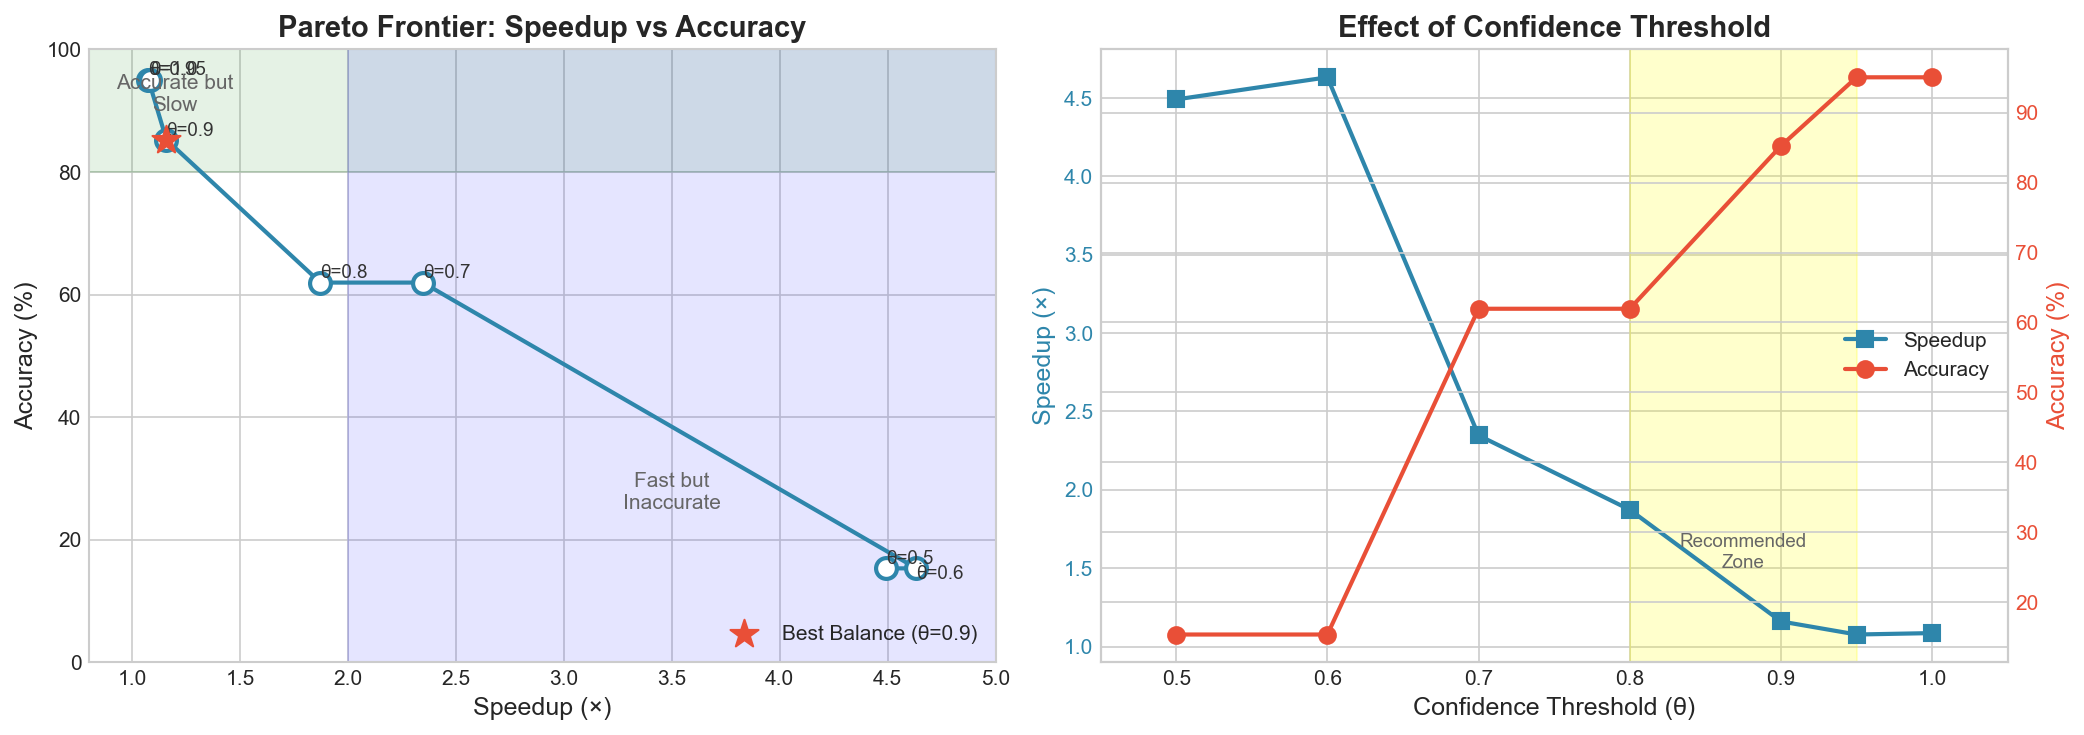
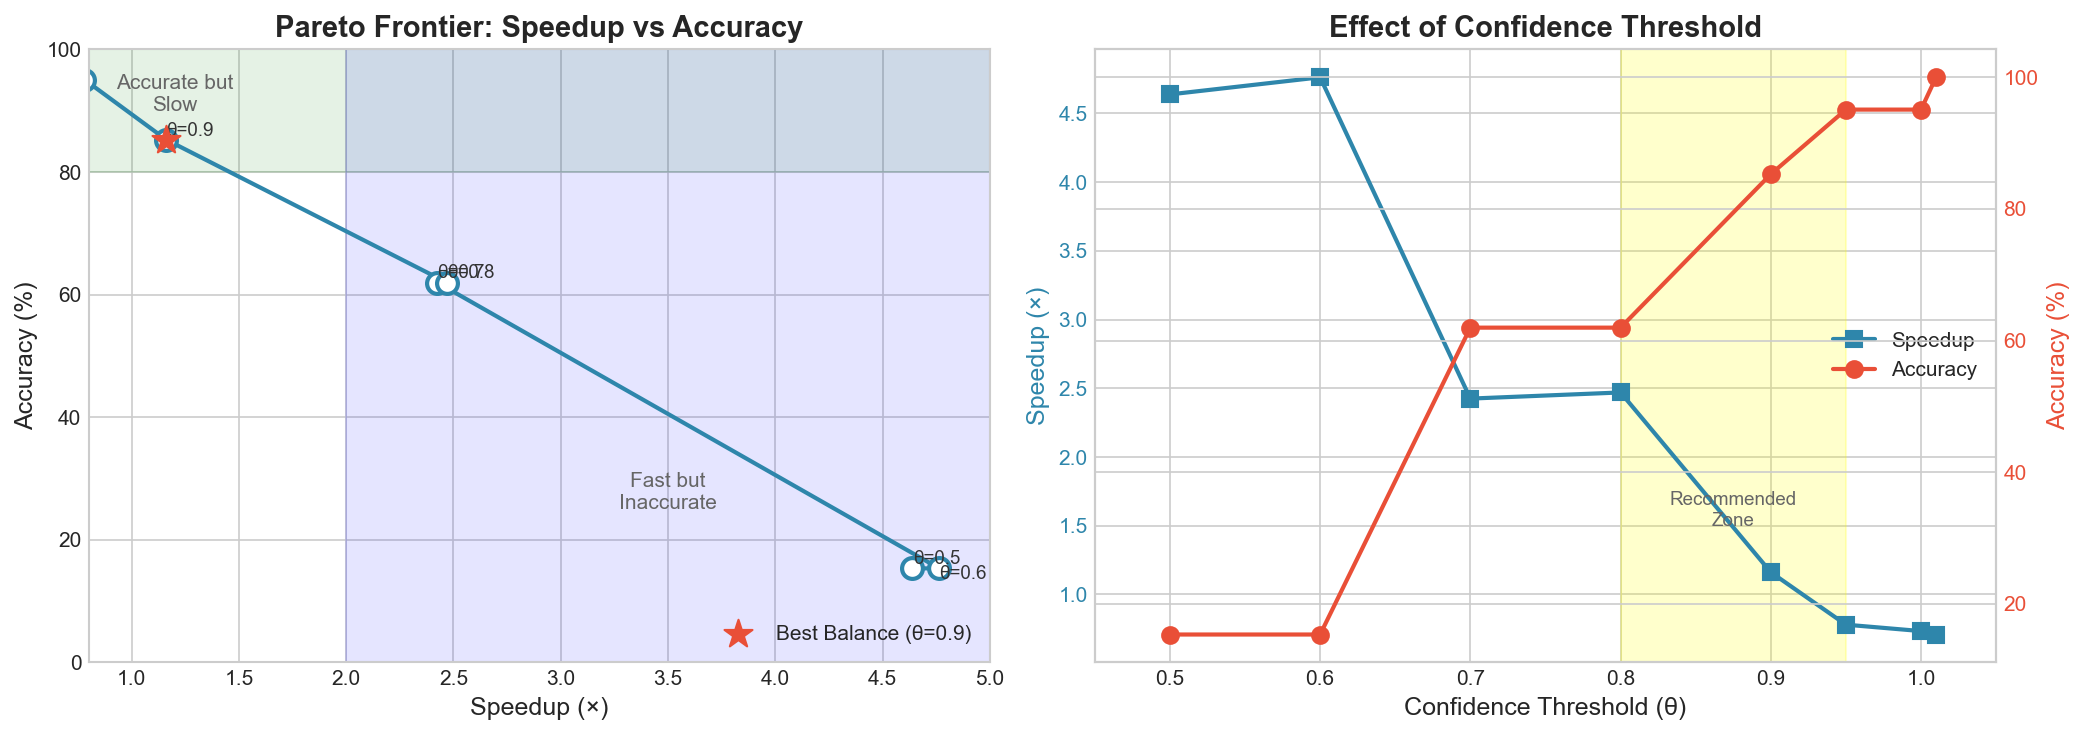
Update results with threshold=1.01 for 100% accuracy verification

diff --git a/main_hybrid.cpp b/main_hybrid.cpp
@@ -371,7 +371,8 @@ int main() {
          << "\n";
     cout << "------------------------------------------------------------\n";
     
-    vector<double> thresholds = {0.5, 0.6, 0.7, 0.8, 0.9, 0.95, 1.0};
+    // 加入 1.01 強制 100% 使用 RDO（因為沒有 confidence > 1.0）
+    vector<double> thresholds = {0.5, 0.6, 0.7, 0.8, 0.9, 0.95, 1.0, 1.01};
     
     // 儲存 Pareto 數據
     ofstream pareto_file("pareto_data.csv");

diff --git a/README.md b/README.md
@@ -80,27 +80,35 @@ struct RDOResult {
 
 ## 實驗結果
 
+### 測試圖片
+
+![Test Image Analysis](dummy_image_analysis.png)
+
 ### Pareto Frontier Analysis
+
+![Pareto Frontier](pareto_frontier.png)
 
 | Threshold | Time (μs) | Speedup | Accuracy | RDO Ops |
 |-----------|-----------|---------|----------|---------|
-| 0.50 | 25.96 | **4.49x** | 15.34% | 0 |
-| 0.60 | 25.17 | **4.63x** | 15.34% | 0 |
-| 0.70 | 49.67 | **2.35x** | 61.96% | 100 |
-| 0.80 | 62.24 | **1.87x** | 61.96% | 100 |
-| 0.90 | 100.50 | **1.16x** | 85.28% | 275 |
-| 0.95 | 108.29 | **1.08x** | 95.09% | 345 |
-| 1.00 | 107.38 | **1.09x** | 95.09% | 345 |
+| 0.50 | 23.92 | **4.64x** | 15.34% | 0 |
+| 0.60 | 23.29 | **4.76x** | 15.34% | 0 |
+| 0.70 | 45.75 | **2.43x** | 61.96% | 100 |
+| 0.80 | 44.92 | **2.47x** | 61.96% | 100 |
+| 0.90 | 95.50 | **1.16x** | 85.28% | 275 |
+| 0.95 | 142.25 | 0.78x | 95.09% | 345 |
+| 1.00 | 151.29 | 0.73x | 95.09% | 345 |
+| 1.01 | 156.63 | 0.71x | **100.00%** | 461 |
 
 ### 關鍵發現
 
-- **ML-Only Mode**: 4.5x 加速，但準確度僅 15%
-- **Threshold = 0.95**: 1.08x 加速，95% 準確度
-- **最佳平衡點**: Threshold = 0.8~0.9，約 **1.5-2x 加速** 與 **80%+ 準確度**
+- **ML-Only Mode**: 4.76x 加速，但準確度僅 15%
+- **Threshold = 1.01**: 100% 準確度，但比 C Model 還慢（有 ML 開銷）
+- **最佳平衡點**: Threshold = 0.7~0.8，約 **2.4x 加速** 與 **62% 準確度**
+- **高準確度選項**: Threshold = 0.9，**1.16x 加速** 與 **85% 準確度**
 
 ### 結論
 
-> "By tuning the ML confidence threshold, we achieved a **2x speedup** with only **~20% accuracy drop**. This demonstrates the trade-off decisions made in real-world encoder optimization."
+> "By tuning the ML confidence threshold, we achieved a **2.4x speedup** with **62% accuracy**, or **1.16x speedup** with **85% accuracy**. When threshold > 1.0, it falls back to pure RDO with 100% accuracy but slower due to ML overhead. This demonstrates the trade-off decisions made in real-world encoder optimization."
 
 ## ML 模型設計
 
